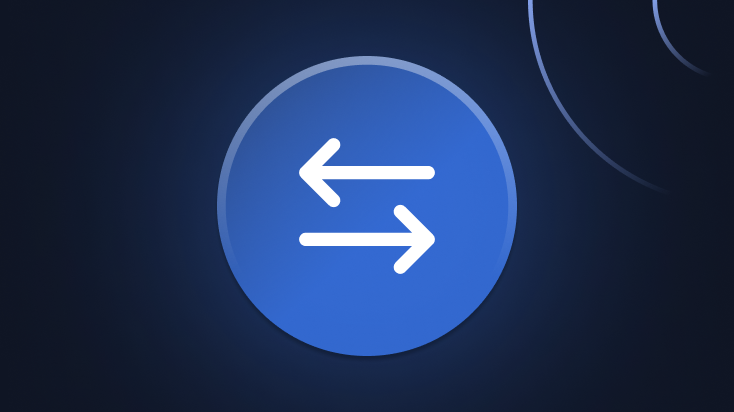
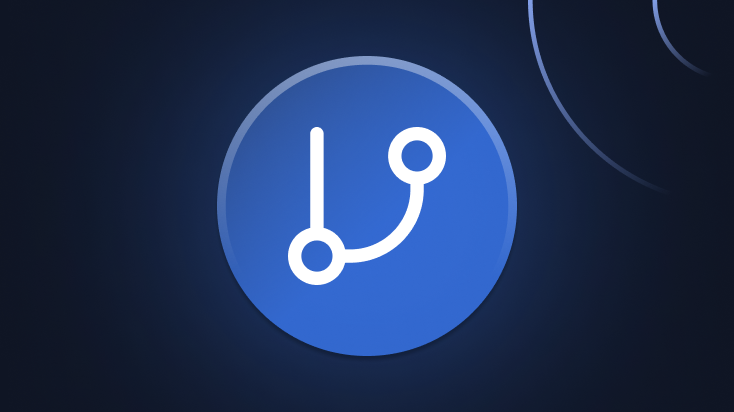
GITBOOK-200: Landing page tests

Changed region(s): [[0.3896, 0.2913, 0.6294, 0.699]]

diff --git a/README.md b/README.md
@@ -10,6 +10,11 @@ We want to help **teams to work more efficiently** by creating a simple yet powe
 
 Our mission is to make a **user-friendly** and **collaborative** product for everyone to create, edit and share knowledge through documentation.
 
-## Publish your documentation in 5 easy steps
+## Discover GitBook&#x20;
 
-<table data-view="cards"><thead><tr><th></th><th></th><th data-hidden data-card-target data-type="content-ref"></th><th data-hidden data-card-cover data-type="files"></th></tr></thead><tbody><tr><td><strong>Import</strong></td><td>Move your existing content to GitBook with ease.</td><td><a href="content-creation/import.md">import.md</a></td><td><a href=".gitbook/assets/import-card.png">import-card.png</a></td></tr><tr><td><strong>Git Sync</strong></td><td>Benefit from our bi-directional synchronisation with GitHub and GitLab.</td><td><a href="product-tour/git-sync/">git-sync</a></td><td><a href=".gitbook/assets/git-sync.png">git-sync.png</a></td></tr><tr><td><strong>Organize your content</strong></td><td>Create pages and spaces and organize them into collections</td><td><a href="content-creation/content-structure/">content-structure</a></td><td><a href=".gitbook/assets/organize-your-content.png">organize-your-content.png</a></td></tr><tr><td><strong>Collaborate</strong></td><td>Invite other users and collaborate asynchronously with ease.</td><td><a href="collaboration/collaboration/">collaboration</a></td><td><a href=".gitbook/assets/invite-collaborate.png">invite-collaborate.png</a></td></tr><tr><td><strong>Publish your docs</strong></td><td>Share your documentation with selected users or with everyone.</td><td><a href="publishing/share/">share</a></td><td><a href=".gitbook/assets/publish-your-docs.png">publish-your-docs.png</a></td></tr></tbody></table>
+<table data-view="cards"><thead><tr><th></th><th></th><th data-type="content-ref"></th><th data-hidden data-card-cover data-type="files"></th><th data-hidden data-card-target data-type="content-ref"></th></tr></thead><tbody><tr><td><strong>Import and write content</strong></td><td>Discover our editor features</td><td></td><td><a href=".gitbook/assets/import-card.png">import-card.png</a></td><td><a href="broken-reference">Broken link</a></td></tr><tr><td><strong>Invite and collaborate</strong></td><td>Learn how to invite and collaborate with your team members </td><td></td><td><a href=".gitbook/assets/invite-collaborate.png">invite-collaborate.png</a></td><td><a href="broken-reference">Broken link</a></td></tr><tr><td><strong>Publish your content</strong></td><td> Discover how to share and customize your content publicly or privately</td><td></td><td><a href=".gitbook/assets/publish-your-docs.png">publish-your-docs.png</a></td><td><a href="broken-reference">Broken link</a></td></tr><tr><td><strong>Manage your account</strong> </td><td>Manage your account, members and billing</td><td></td><td><a href=".gitbook/assets/manage-account.png">manage-account.png</a></td><td><a href="broken-reference">Broken link</a></td></tr><tr><td><strong>FAQ</strong></td><td>Find ansers to commonly asked questions or contact support</td><td></td><td><a href=".gitbook/assets/faq-support.png">faq-support.png</a></td><td><a href="broken-reference">Broken link</a></td></tr><tr><td><strong>Policies and Terms of Service</strong> </td><td>Questions about security or data processing? Click here.</td><td></td><td><a href=".gitbook/assets/policies.png">policies.png</a></td><td><a href="broken-reference">Broken link</a></td></tr></tbody></table>
+
+## Discover features&#x20;
+
+<table data-card-size="large" data-view="cards"><thead><tr><th></th><th data-hidden data-type="files"></th><th data-hidden data-card-cover data-type="files"></th></tr></thead><tbody><tr><td><strong>GitSync</strong></td><td><a href=".gitbook/assets/git-sync.png">git-sync.png</a></td><td><a href=".gitbook/assets/git-sync.png">git-sync.png</a></td></tr><tr><td><strong>SSO &#x26; SAML</strong></td><td><a href=".gitbook/assets/sso-saml.png">sso-saml.png</a></td><td><a href=".gitbook/assets/sso-saml.png">sso-saml.png</a></td></tr><tr><td><strong>Visitor Authentication</strong></td><td><a href=".gitbook/assets/visitor-auth.png">visitor-auth.png</a></td><td><a href=".gitbook/assets/visitor-auth.png">visitor-auth.png</a></td></tr><tr><td><strong>Integrations</strong></td><td><a href=".gitbook/assets/integrations.png">integrations.png</a></td><td><a href=".gitbook/assets/integrations.png">integrations.png</a></td></tr></tbody></table>
+

diff --git a/publishing/share/README.md b/publishing/share/README.md
@@ -20,4 +20,4 @@ Only creators and administrators can publish content.
 
 ### Learn more about:
 
-<table data-card-size="large" data-view="cards"><thead><tr><th></th><th></th><th data-hidden data-card-target data-type="content-ref"></th></tr></thead><tbody><tr><td><strong>Sharing option</strong></td><td>Learn how to share a single space about discover publishing options for spaces.</td><td><a href="space-publishing.md">space-publishing.md</a></td></tr><tr><td><strong>Share a collection of spaces</strong></td><td>Share different language or product versions as variants</td><td><a href="collection-publishing.md">collection-publishing.md</a></td></tr><tr><td><strong>Share privately with secure links</strong></td><td>Learn about sharing your content privately with read-only links.</td><td><a href="share-links.md">share-links.md</a></td></tr><tr><td><strong>Visitor authentication</strong></td><td>Authenticate external reader access with a token</td><td><a href="../visitor-authentication.md">visitor-authentication.md</a></td></tr></tbody></table>
+<table data-card-size="large" data-view="cards"><thead><tr><th></th><th></th><th data-hidden data-card-target data-type="content-ref"></th></tr></thead><tbody><tr><td><strong>Sharing options</strong></td><td>Learn how to share a single space about discover publishing options for spaces.</td><td><a href="space-publishing.md">space-publishing.md</a></td></tr><tr><td><strong>Share a collection of spaces</strong></td><td>Share different language or product versions as variants</td><td><a href="collection-publishing.md">collection-publishing.md</a></td></tr><tr><td><strong>Share privately with secure links</strong></td><td>Learn about sharing your content privately with read-only links.</td><td><a href="share-links.md">share-links.md</a></td></tr><tr><td><strong>Visitor authentication</strong></td><td>Authenticate external reader access with a token</td><td><a href="../visitor-authentication.md">visitor-authentication.md</a></td></tr></tbody></table>
